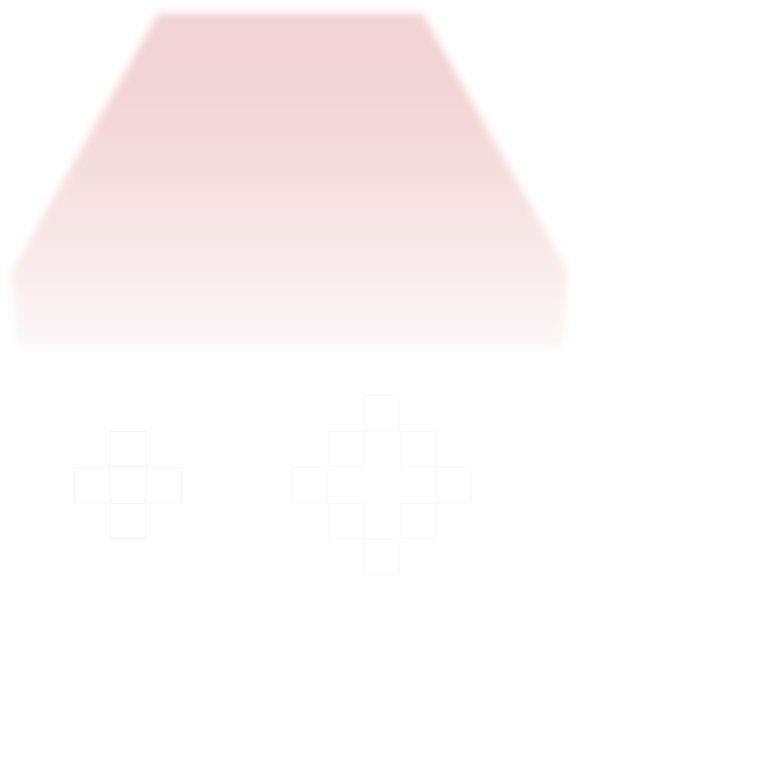
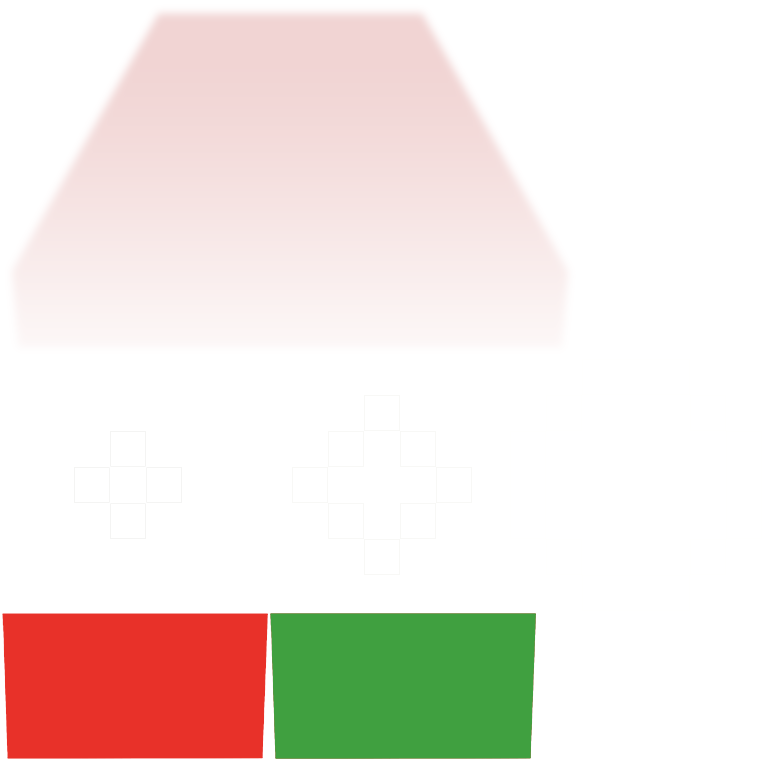
added a hit effect to the bear

Changed region(s): [[0.0, 0.7827, 0.7225, 0.9935]]

diff --git a/lib/renderer-css/index.js b/lib/renderer-css/index.js
@@ -147,9 +147,11 @@ Renderer.prototype = {
     switch(id) {
       case 'hitOpponent':
         this.bear.change('angry');
+        Effects.puckHit('me')
         break;
       case 'hitMe':
         this.bear.change('flirt');
+        Effects.puckHit('opponent')
         break;
       case 'gameStart':
         this.bear.change('jawdrop');
@@ -162,14 +164,6 @@ Renderer.prototype = {
           window.navigator.vibrate(200)
         break;
       case 'resetPaddles':
-        // var world = this.world; // lazy fix
-
-        // if( !world ) return
-        // //Used for reseting shields in an early stage.
-        // for(var i = 0; i < world.level.player.shields; i++){
-        //   var obj = new Shield(this.element);
-        // }
-        // break;
     }
   },
 

diff --git a/lib/renderer-css/effects.js b/lib/renderer-css/effects.js
@@ -8,6 +8,27 @@ function Effects(renderer, env){
 
 }
 
+Effects.puckHit = function(player){
+  var elem;
+  if(player == 'opponent') {
+    elem = $('#canv-css .screen .hit-cpu');
+  } else {
+    elem = $('#canv-css .screen .hit-player');
+  }
+  console.log('puckhit', elem);
+
+  setTimeout( function(){
+    elem.addClass('active');
+    setTimeout(function(){
+      elem.removeClass('active');
+      setTimeout(function(){
+        elem.addClass('hidden');
+      }, 600)
+    }, 600)
+  }, 4)
+  elem.removeClass('hidden');
+}
+
 Effects.toggleFog = function(active){
   var fog = $('#canv-css .effects .effect.fog');
   if( active ) {
